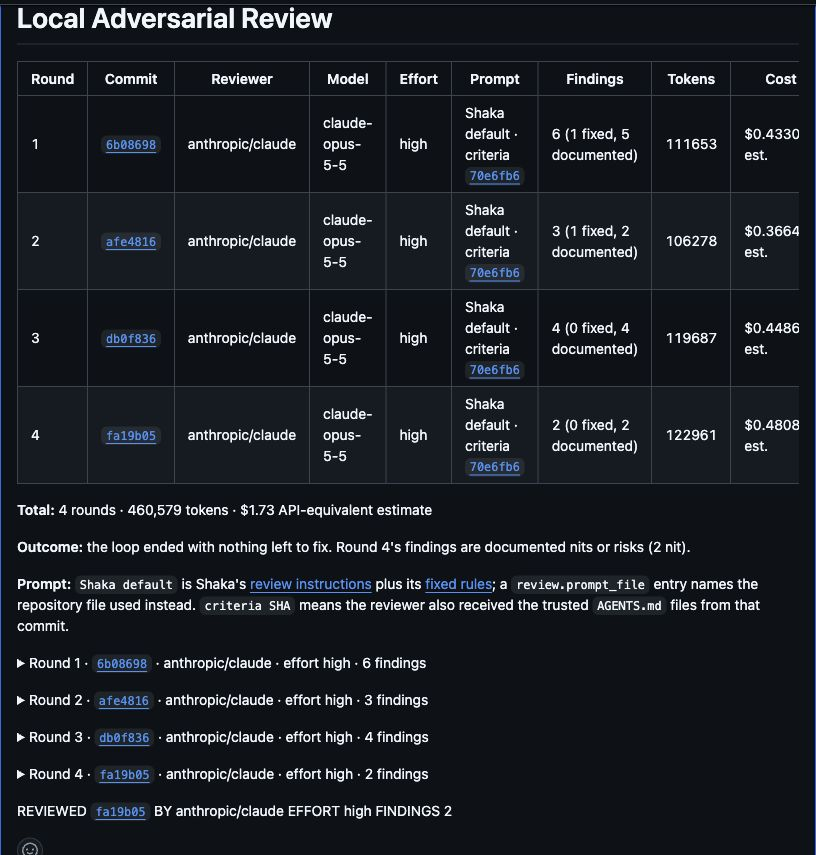
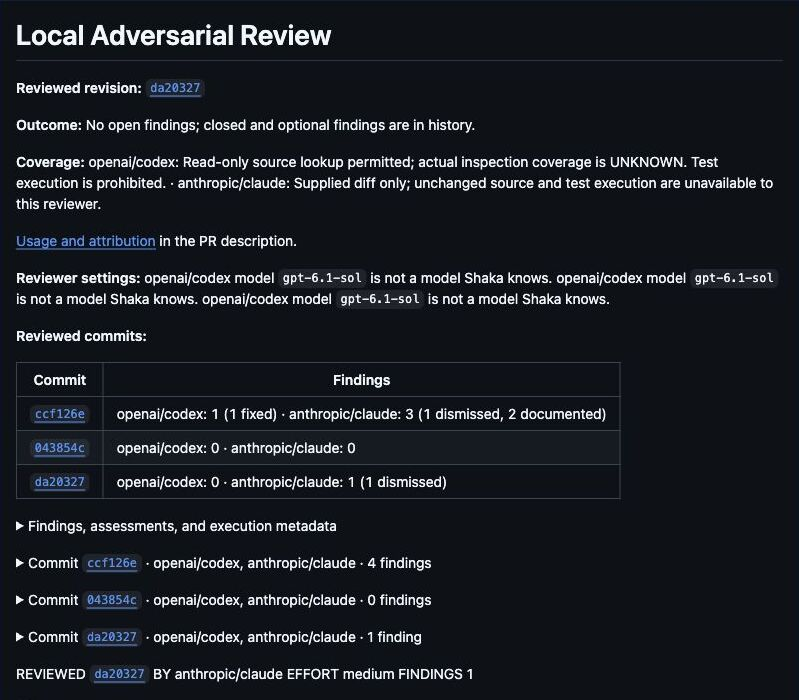
Refresh screenshots for the current Shaka PR format (#18)
Show real PR #667 description, local review history and code walkthrough
on the homepage. Match source links, callouts, image dimensions and
historical capture labels to the updated screenshots.

diff --git a/prototypes/docusaurus/src/components/PrExamples.tsx b/prototypes/docusaurus/src/components/PrExamples.tsx
@@ -7,41 +7,41 @@ import styles from './PrExamples.module.css';
 const examples = [
   {
     id: 'verification',
-    number: 372,
-    title: 'See what was checked.',
-    source: 'https://github.com/shakacode/shaka/pull/372#issue-5657087959',
-    height: 705,
-    alt: 'Shaka PR #372 description with a verification table, commit links, and expandable usage and settings.',
+    number: 667,
+    title: 'Start with the recommendation.',
+    source: 'https://github.com/shakacode/shaka/pull/667#issue-5907900056',
+    height: 1331,
+    alt: 'Shaka PR #667 description with a configured-model attribution note, recommendation and evidence links, Intent, Verification, and expandable details.',
     annotations: [
-      {top: '45%', title: 'Evidence tied to a commit', text: 'The check table names the tests, assertions, and commit that passed.'},
-      {top: '70%', title: 'More than automated tests', text: 'Desktop and mobile captures, review results, and a product checkpoint appear alongside the checks.'},
-      {top: '91%', title: 'Details when you need them', text: 'Expand usage and cost, execution provenance, or repository settings without losing the summary.'},
+      {top: '8%', title: 'A recommendation with its evidence', text: 'The recommendation links to the walkthrough, review, and checkpoint. The attribution note distinguishes configured and served models.'},
+      {top: '30%', title: 'Know the scope and safety assumption', text: 'Intent explains why the change matters, what it covers, and how carefully to review it.'},
+      {top: '51%', title: 'See what was proved and what was not', text: 'Verification names the checks and results. Not verified keeps the remaining gap visible.'},
     ],
   },
   {
     id: 'review-rounds',
-    number: 350,
+    number: 667,
     title: 'Local adversarial review',
-    source: 'https://github.com/shakacode/shaka/pull/350#issuecomment-5905445905',
-    height: 855,
-    alt: 'Shaka PR #350 local adversarial review showing four rounds, reviewer models, findings, fixes, and an outcome.',
+    source: 'https://github.com/shakacode/shaka/pull/667#issuecomment-6247987027',
+    height: 700,
+    alt: 'Shaka PR #667 local adversarial review with the reviewed revision, coverage limits, three reviewed commits, fixed and dismissed findings, and expandable reports.',
     annotations: [
-      {top: '16%', title: 'Know who reviewed what', text: 'Each round names the commit, reviewer, model, effort, and review criteria.'},
-      {top: '39%', title: 'Track findings through repair', text: 'The first two rounds each record a fix. Later findings are documented, with the full reports available below.'},
-      {top: '64%', title: 'Read the outcome first', text: 'The summary says why the loop ended and what remains. Reported cost is labeled as an estimate.'},
+      {top: '25%', title: 'Read the coverage limits', text: 'The review names the revision and explains what each reviewer could inspect. Tests were outside their review coverage.'},
+      {top: '62%', title: 'Track findings and their dispositions', text: 'The table records fixes, dismissed findings, and optional notes across three commits. No open findings remain.'},
+      {top: '81%', title: 'Keep the full reports available', text: 'Expand findings, assessments, execution metadata, or the reports for each reviewed commit.'},
     ],
   },
   {
     id: 'walkthrough',
-    number: 325,
+    number: 667,
     title: 'Understand the change and its limits.',
-    source: 'https://github.com/shakacode/shaka/pull/325#pullrequestreview-5348779668',
-    height: 745,
-    alt: 'Shaka PR #325 code walkthrough explaining before and after behavior, linked code and tests, rollback, and known test failures.',
+    source: 'https://github.com/shakacode/shaka/pull/667#pullrequestreview-5562252902',
+    height: 1173,
+    alt: 'Shaka PR #667 code walkthrough with linked implementation, a container-evidence flow diagram, comparison limits, tests, and rollback consequences.',
     annotations: [
-      {top: '49%', title: 'An explanation linked to code', text: 'The walkthrough connects the before-and-after behavior to the implementation and its regression test.'},
-      {top: '66%', title: 'Risks and rollback stay visible', text: 'The reviewer can see which installations change behavior and what reverting would restore.'},
-      {top: '87%', title: 'Verification gaps are explicit', text: 'The full-suite row reports three failures that also occurred on main locally. A passing focused test does not hide them.'},
+      {top: '25%', title: 'An explanation linked to code', text: 'Links connect the explanation to the code that captures, binds, and compares the container environment.'},
+      {top: '45%', title: 'See how the pieces connect', text: 'A small flow diagram connects Docker inspection, the saved fingerprint, and the comparison decision.'},
+      {top: '76%', title: 'Evidence and rollback are concrete', text: 'The report names focused tests and qualification limits. Reverting removes the reader and guard while preserving private evidence.'},
     ],
   },
 ];
@@ -52,7 +52,7 @@ function PrExample({example}: {example: (typeof examples)[number]}): ReactNode {
   return (
     <figure className={styles.example}>
       <div className={styles.capture}>
-        <img src={imageUrl} alt={example.alt} width={816} height={example.height}
+        <img src={imageUrl} alt={example.alt} width={799} height={example.height}
           loading="lazy" decoding="async" />
         {example.annotations.map((annotation, index) => (
           <span key={annotation.title} className={styles.marker}
@@ -83,7 +83,7 @@ export default function PrExamples(): ReactNode {
     <div className={styles.examples}>
       {examples.map((example) => <PrExample key={example.id} example={example} />)}
       <p className={styles.archiveNote}>
-        Cropped GitHub screenshots captured October 1, 2026. Callouts explain the recorded results;
+        Cropped GitHub screenshots from PR #667 captured October 17, 2026 (Hawaii time), for revision da20327. Callouts explain the recorded results;
         they are historical examples, not a claim about any PR’s current readiness.
       </p>
     </div>
